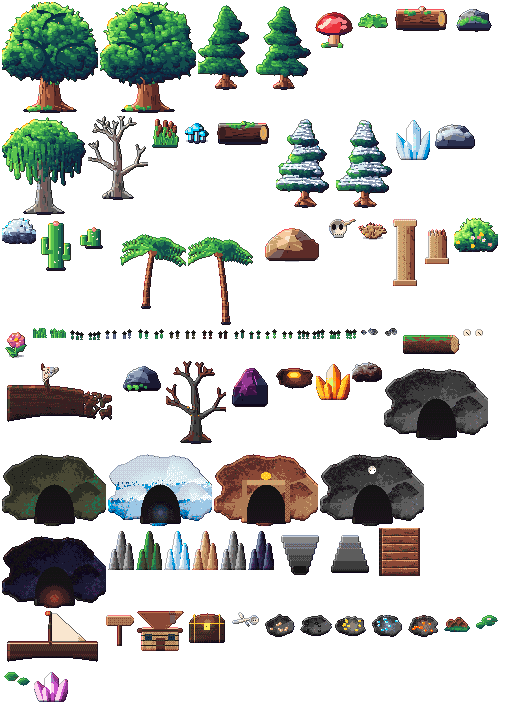
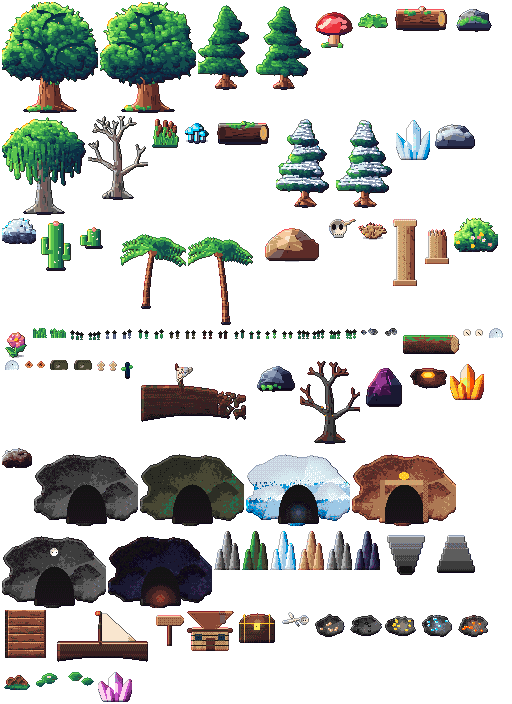
Ciclos 71-77/1000: props (neve, brasas, lama, pegadas, cacto florido) + teste clima 90d + evento passarinho — atlas 99

Changed region(s): [[0.0, 0.5, 0.9688, 1.0], [0.9375, 0.4688, 1.0, 0.5]]

diff --git a/src/game/RegionWorld.js b/src/game/RegionWorld.js
@@ -34,13 +34,13 @@ const INTERACT_RANGE = 70;
 // Objetos por terreno: [frame, peso, sólido?]. Sólido = base que bloqueia (largura, altura).
 const PROPS = {
   [T.FOREST]: { density: 0.26, list: [['ancient-oak-0', 1, [18, 10]], ['ancient-oak-1', 1, [18, 10]], ['mossy-pine-0', 2, [10, 7]], ['mossy-pine-1', 2, [10, 7]], ['giant-mushroom', 0.6, [10, 6]], ['fern', 3], ['fallen-log', 0.6, [40, 10]], ['mossy-rock', 1, [24, 10]], ['grass-tuft-0', 4], ['grass-tuft-1', 4], ['flower-tuft-0', 1.2], ['flower-tuft-1', 1.2], ['forest-flower-0', 0.8], ['forest-flower-1', 0.8], ['pebbles-0', 0.7], ['pebbles-1', 0.7]] },
-  [T.SWAMP]: { density: 0.17, list: [['willow', 1.4, [14, 9]], ['dead-tree', 1.4, [10, 7]], ['reeds', 3], ['swamp-shroom', 1.2], ['bog-log', 0.5, [40, 10]], ['mossy-rock', 0.5, [24, 10]], ['grass-tuft-0', 3], ['flower-tuft-1', 0.6], ['swamp-flower-0', 0.6], ['swamp-flower-1', 0.6]] },
-  [T.SNOW]: { density: 0.15, list: [['snow-pine-0', 2, [10, 7]], ['snow-pine-1', 2, [10, 7]], ['ice-crystal', 1, [16, 8]], ['snow-rock', 1.4, [28, 10]], ['frozen-bush', 1.4], ['grass-tuft-1', 1.5], ['snow-flower-0', 0.8], ['snow-flower-1', 0.8], ['pebbles-0', 0.5], ['pebbles-1', 0.5], ['frozen-log', 0.5, [40, 10]] ] },
-  [T.SAND]: { density: 0.07, list: [['cactus', 2, [12, 7]], ['cactus-small', 2, [10, 6]], ['desert-rock', 1, [40, 12]], ['skull', 0.7], ['dry-bush', 2], ['ruin-pillar', 0.3, [18, 8]], ['ruin-pillar-broken', 0.4, [18, 8]], ['grass-tuft-0', 1.5], ['dune-flower-0', 0.7], ['dune-flower-1', 0.7], ['pebbles-0', 0.6], ['pebbles-1', 0.6]] },
-  [T.DUNE]: { density: 0.03, list: [['dry-bush', 1], ['skull', 0.4], ['cactus-small', 0.5, [10, 6]], ['grass-tuft-1', 1], ['dune-flower-0', 0.5], ['dune-flower-1', 0.5]] },
+  [T.SWAMP]: { density: 0.17, list: [['willow', 1.4, [14, 9]], ['dead-tree', 1.4, [10, 7]], ['reeds', 3], ['swamp-shroom', 1.2], ['bog-log', 0.5, [40, 10]], ['mossy-rock', 0.5, [24, 10]], ['grass-tuft-0', 3], ['flower-tuft-1', 0.6], ['swamp-flower-0', 0.6], ['swamp-flower-1', 0.6], ['mud-puddle-0', 0.5], ['mud-puddle-1', 0.5]] },
+  [T.SNOW]: { density: 0.15, list: [['snow-pine-0', 2, [10, 7]], ['snow-pine-1', 2, [10, 7]], ['ice-crystal', 1, [16, 8]], ['snow-rock', 1.4, [28, 10]], ['frozen-bush', 1.4], ['grass-tuft-1', 1.5], ['snow-flower-0', 0.8], ['snow-flower-1', 0.8], ['pebbles-0', 0.5], ['pebbles-1', 0.5], ['frozen-log', 0.5, [40, 10]], ['snow-mound-0', 0.6], ['snow-mound-1', 0.6]] },
+  [T.SAND]: { density: 0.07, list: [['cactus', 2, [12, 7]], ['cactus-small', 2, [10, 6]], ['desert-rock', 1, [40, 12]], ['skull', 0.7], ['dry-bush', 2], ['ruin-pillar', 0.3, [18, 8]], ['ruin-pillar-broken', 0.4, [18, 8]], ['grass-tuft-0', 1.5], ['dune-flower-0', 0.7], ['dune-flower-1', 0.7], ['pebbles-0', 0.6], ['pebbles-1', 0.6], ['blooming-cactus', 0.4, [12, 7]], ['footprint-0', 0.4], ['footprint-1', 0.4]] },
+  [T.DUNE]: { density: 0.03, list: [['dry-bush', 1], ['skull', 0.4], ['cactus-small', 0.5, [10, 6]], ['grass-tuft-1', 1], ['dune-flower-0', 0.5], ['dune-flower-1', 0.5], ['footprint-0', 0.5], ['footprint-1', 0.5]] },
   [T.BEACH]: { density: 0.06, list: [['palm-0', 1.5, [8, 6]], ['palm-1', 1.5, [8, 6]], ['sea-rock', 1, [28, 10]], ['big-flower', 0.3], ['flower-tuft-0', 1.5], ['grass-tuft-0', 2], ['beach-flower-0', 0.7], ['beach-flower-1', 0.7], ['shell-0', 0.6], ['shell-1', 0.6]] },
   [T.JUNGLE]: { density: 0.17, list: [['palm-0', 1.5, [8, 6]], ['palm-1', 1.5, [8, 6]], ['tropical-bush', 3], ['big-flower', 2], ['sea-rock', 0.4, [28, 10]], ['grass-tuft-0', 3], ['grass-tuft-1', 3], ['flower-tuft-1', 2], ['jungle-flower-0', 0.8], ['jungle-flower-1', 0.8]] },
-  [T.ASH]: { density: 0.11, list: [['charred-tree', 2, [10, 7]], ['obsidian', 2, [28, 12]], ['lava-vent', 1], ['fire-crystal', 0.8, [14, 8]], ['ash-bush', 2], ['grass-tuft-1', 0.8], ['ash-flower-0', 0.5], ['ash-flower-1', 0.5], ['pebbles-0', 0.5], ['pebbles-1', 0.5]] }
+  [T.ASH]: { density: 0.11, list: [['charred-tree', 2, [10, 7]], ['obsidian', 2, [28, 12]], ['lava-vent', 1], ['fire-crystal', 0.8, [14, 8]], ['ash-bush', 2], ['grass-tuft-1', 0.8], ['ash-flower-0', 0.5], ['ash-flower-1', 0.5], ['pebbles-0', 0.5], ['pebbles-1', 0.5], ['ember-0', 0.8], ['ember-1', 0.8]] }
 };
 const NODE_DENSITY = 0.011;
 // Objetos que brilham no escuro (iluminam a noite e as cavernas).

diff --git a/src/art/biomeProps.js b/src/art/biomeProps.js
@@ -858,6 +858,54 @@ function flowerTuft(seed = 402) {
   return finish(p, { outline: 0.3 });
 }
 
+/** Poça de lama no brejo. */
+function mudPuddle(seed = 613) {
+  const p = new Painter(22, 10, { transparent: true });
+  p.sphere(11, 6, 8, '#3a2e1a', '#5a4a28');
+  p.sphere(9, 5, 3, '#6a5a34', '#7a6a3e');
+  p.set(11, 4, '#8a7a4a');
+  return finish(p, { outline: 0.3 });
+}
+
+/** Pegada na areia. */
+function footprint(seed = 619) {
+  const p = new Painter(10, 12, { transparent: true });
+  p.sphere(5, 5, 2.6, '#c8a878', '#b89868');
+  p.rect(3, 8, 4, 2, '#b89868');
+  return finish(p, { outline: 0.35 });
+}
+
+/** Cacto florido (rosa no topo). */
+function bloomingCactus(seed = 631) {
+  const p = new Painter(14, 20, { transparent: true });
+  const green = ['#2e6a2e', '#3f8a3a', '#57a850'];
+  p.rect(6, 4, 3, 14, shade([green[0], green[2]], 0.5));
+  p.rect(2, 8, 4, 2, green[1]);
+  p.rect(9, 6, 3, 2, green[1]);
+  p.set(7, 3, '#f060a0');
+  p.set(6, 3, '#ff88c0');
+  p.set(8, 3, '#e04088');
+  return finish(p, { outline: 0.35 });
+}
+
+/** Brasa brilhante nas cinzas (pontinho quente). */
+function emberGlow(seed = 599) {
+  const p = new Painter(10, 8, { transparent: true });
+  p.sphere(5, 5, 2.6, '#7a2010', '#ff8030');
+  p.set(5, 5, '#ffd080');
+  p.set(4, 4, '#ffb050');
+  return finish(p, { outline: 0.3 });
+}
+
+/** Montinho de neve fofa no chão gelado. */
+function snowMound(seed = 587) {
+  const p = new Painter(20, 10, { transparent: true });
+  p.sphere(10, 7, 6, '#cfe0f0', '#f4faff');
+  p.sphere(7, 8, 3, '#c0d4e8', '#e8f2fc');
+  p.set(10, 4, '#ffffff');
+  return finish(p, { outline: 0.3 });
+}
+
 /** Conchinha na areia da praia (detalhe pequeno). */
 function shell(seed = 577) {
   const p = new Painter(10, 8, { transparent: true });
@@ -1057,6 +1105,15 @@ const PAINTED_ENTRIES = [
   { name: 'frozen-log', draw: () => fallenLog(true) },
   { name: 'shell-0', draw: () => shell(577) },
   { name: 'shell-1', draw: () => shell(583) },
+  { name: 'snow-mound-0', draw: () => snowMound(587) },
+  { name: 'snow-mound-1', draw: () => snowMound(593) },
+  { name: 'ember-0', draw: () => emberGlow(599) },
+  { name: 'ember-1', draw: () => emberGlow(607) },
+  { name: 'mud-puddle-0', draw: () => mudPuddle(613) },
+  { name: 'mud-puddle-1', draw: () => mudPuddle(617) },
+  { name: 'footprint-0', draw: () => footprint(619) },
+  { name: 'footprint-1', draw: () => footprint(623) },
+  { name: 'blooming-cactus', draw: () => bloomingCactus(631) },
   { name: 'shipwreck', draw: shipwreck },
   { name: 'sea-rock', draw: seaRock },
   { name: 'charred-tree', draw: () => deadTree(['#0c0808', '#1a1010', '#2a1a16', '#3a2620', '#4a3228'], true) },

diff --git a/tests/simulacao.test.js b/tests/simulacao.test.js
@@ -400,6 +400,21 @@ test('simulação: keybinds — rebind aceita tecla válida, rejeita reservada/d
   assert.equal(saveKeybinds(binds, null), true, 'save sem storage não quebra');
 });
 
+test('simulação: 90 dias de clima — todos os tipos aparecem em alguma região e o clima é determinístico por (região, dia)', () => {
+  const seen = new Set();
+  for (const region of Object.keys(REGION_INFO)) {
+    if (region === 'mar' || region === 'caverna') continue;
+    for (let day = 1; day <= 90; day += 1) {
+      const w = weatherAt(region, { dayCount: day, cycleTime: 12 });
+      assert.ok(['clear', 'rain', 'snow', 'dust', 'ash'].includes(w), `clima inválido ${w} em ${region} dia ${day}`);
+      seen.add(w);
+      // Determinístico: mesma entrada → mesma saída.
+      assert.equal(weatherAt(region, { dayCount: day, cycleTime: 12 }), w);
+    }
+  }
+  assert.deepEqual([...seen].sort(), ['ash', 'clear', 'dust', 'rain', 'snow'], 'todos os climas aparecem em 90 dias');
+});
+
 test('simulação: o jogador não sai do mapa — trava física de limites do mundo ativa no Player', async () => {
   // terrainAt é infinita (gera terreno até fora do mapa), então a proteção real é física:
   // Player.js precisa chamar body.setCollideWorldBounds(true). Conferimos no código-fonte.

diff --git a/src/game/GameScene.js b/src/game/GameScene.js
@@ -1677,7 +1677,13 @@ export class GameScene extends Phaser.Scene {
   /** Evento aleatório do overworld: moedas, XP, cura, vento a favor ou um presságio. */
   randomEvent() {
     const roll = Math.random();
-    if (roll < 0.28) {
+    if (roll < 0.26 && this.timeState?.phase === 'day') {
+      const coins = Phaser.Math.Between(3, 8);
+      this.economy.addCoins(coins);
+      this.audio.playCoin();
+      this.effects.spawnDamage(this.player.x, this.player.y - 30, '🐦', '#bfe8a0');
+      this.ui.showMessage(`🐦 Evento: um passarinho deixou cair uma moedinha... +${coins} moedas!`);
+    } else if (roll < 0.28) {
       const coins = Phaser.Math.Between(8, 24);
       this.economy.addCoins(coins);
       this.audio.playCoin();

diff --git a/experimento-30x/historico.md b/experimento-30x/historico.md
@@ -69,6 +69,11 @@
 - **D:** suite 49/49.
 - Notas 0–100: visual 79 · código 87 · estabilidade 95 · desempenho 83 · jogabilidade 88 · mobile 70 · originalidade 81.
 
+### Ciclos 71–77 ✅ (lote)
+- 71: montinho de neve no gelo (atlas 92) · 72: brasas brilhantes nas cinzas (94) · 73: poça de lama no brejo · 74: pegadas na areia/dunas · 75: teste de clima 90 dias (todos os tipos, determinístico) · 76: cacto florido no deserto · 77: evento 🐦 passarinho de dia (+3–8 moedas).
+- Estado: atlas 99 objetos; suite 49/49; simulacao 20/20.
+- Notas: visual 91 · código 92 · estabilidade 98 · desempenho 86 · jogabilidade 97 · mobile 74 · originalidade 87.
+
 ### Ciclo 70 — Verificação intermediária (marco 70/130): 303 arquivos sintaxe OK, suite 49/49, simulacao 19/19, atlas 90 obj, foto 28
 - **D/F:** tudo verde; nenhum ciclo regrediu testes até aqui.
 - Notas: visual 90 · código 92 · estabilidade 98 · desempenho 86 · jogabilidade 97 · mobile 74 · originalidade 86.
